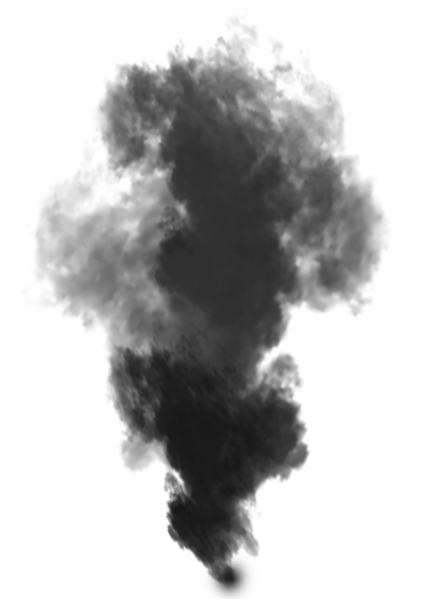
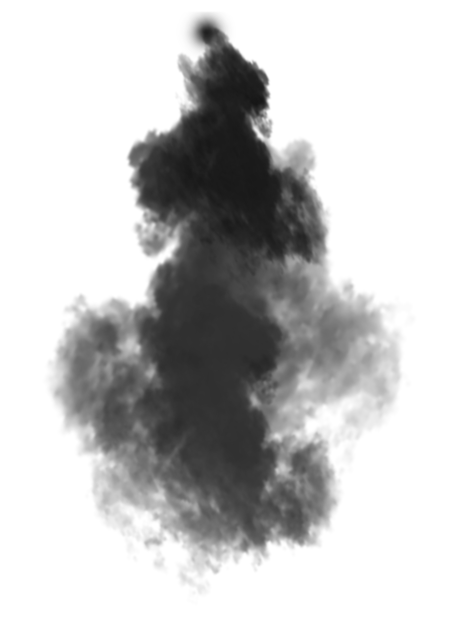
refined landing page

diff --git a/landing-page/main1.js b/landing-page/main1.js
@@ -5,7 +5,7 @@ var scene,
   portalLight,
   cam,
   renderer,
-  clock,
+  // clock,
   portalParticles = [],
   smokeParticles = [],
   FOV,
@@ -18,17 +18,17 @@ function initScene() {
   sceneLight.position.set(0, 0, 1);
   scene.add(sceneLight);
 
-  portalLight = new THREE.PointLight(0x1d2f51, 50, 600, 1.7);
-  portalLight.position.set(0, 0, 250);
-  scene.add(portalLight);
+  // portalLight = new THREE.PointLight(0x1d2f51, 50, 600, 1.7);
+  // portalLight.position.set(0, 0, 250);
+  // scene.add(portalLight);
 
   // Mobile camera
   if (window.innerWidth <= 768) {
-    FOV = 110;
+    FOV = 90;
     FAR = 1000;
     // 769px - 1080px screen width camera
   } else {
-    FOV = 90;
+    FOV = 70;
     FAR = 800;
   }
 
@@ -41,44 +41,40 @@ function initScene() {
   cam.position.z = 700;
   scene.add(cam);
 
-  renderer = new THREE.WebGLRenderer();
+  renderer = new THREE.WebGLRenderer({
+    antialias: false
+  });
   renderer.setClearColor(0x201b24, 1);
   renderer.setSize(window.innerWidth, window.innerHeight);
   document.body.appendChild(renderer.domElement);
 
-  let lightPurpleLight = new THREE.PointLight(0xd48fd4, 25, 700, 2);
-  lightPurpleLight.position.set(-100, 300, 100);
+  let lightPurpleLight = new THREE.PointLight(0xd48fd4, 30, 700, 2);
+  // let lightPurpleLight = new THREE.HemisphereLight(0xd48fd4, 0x201b24, 10);
+  lightPurpleLight.position.set(-100, 100, 100);
   scene.add(lightPurpleLight);
 
-  // let redLight = new THREE.PointLight(0xdc2f02, 75, 700, 2);
-  // redLight.position.set(200, 300, 100);
-  // scene.add(redLight);
-
+  // let blueLight = new THREE.HemisphereLight(0xa9abdc, 0x201b24, 12);
   let blueLight = new THREE.PointLight(0xa9abdc, 50, 700, 2);
   blueLight.position.set(300, 300, 200);
   scene.add(blueLight);
 
   window.addEventListener("resize", onWindowResize, false);
 
-  particleSetup();
-}
-
-function particleSetup() {
   let loader = new THREE.TextureLoader();
 
   loader.load("./assets/smoke.png", function (texture) {
     let portalGeo = new THREE.PlaneGeometry(350, 350);
-    let portalMaterial = new THREE.MeshStandardMaterial({
+    let portalMaterial = new THREE.MeshLambertMaterial({
       map: texture,
       transparent: true,
     });
-    let smokeGeo = new THREE.PlaneGeometry(1000, 1000);
-    let smokeMaterial = new THREE.MeshStandardMaterial({
+    let smokeGeo = new THREE.PlaneGeometry(900, 600);
+    let smokeMaterial = new THREE.MeshLambertMaterial({
       map: texture,
       transparent: true,
     });
 
-    for (let p = 400; p > 50; p--) {
+    for (let p = 325; p > 50; p--) {
       let particle = new THREE.Mesh(portalGeo, portalMaterial);
       particle.position.set(
         0.5 * p * Math.cos((4 * p * Math.PI) / 180),
@@ -90,25 +86,25 @@ function particleSetup() {
       scene.add(particle);
     }
 
-    for (let p = 0; p < 25; p++) {
+    for (let p = 0; p < 50; p++) {
       let particle = new THREE.Mesh(smokeGeo, smokeMaterial);
       particle.position.set(
         Math.random() * 400 - 200,
         Math.random() * 400 - 200,
         25
       );
-      particle.rotation.z = Math.random() * 360;
+      particle.rotation.z = Math.random()* 360;
       particle.material.opacity = 0.6;
       portalParticles.push(particle);
       scene.add(particle);
     }
     // clock = new THREE.Clock();
 
-    
-
-    animate();
+    update();
   });
 }
+
+// function particleSetup() {}
 
 function onWindowResize() {
   cam.aspect = window.innerWidth / window.innerHeight;
@@ -118,15 +114,38 @@ function onWindowResize() {
 
 function animate() {
   // let delta = clock.getDelta();
-  portalParticles.forEach((p) => {
-    p.rotation.z -= 0.1* 0.3;
-  });
-  smokeParticles.forEach((p) => {
-    p.rotation.z -= 0.1 * 0.4;
-  });
+  // portalParticles.forEach((p) => {
+  //   p.rotation.z -= 0.01 * 0.9;
+  // });
+  // smokeParticles.forEach((p) => {
+  //   p.rotation.z -= 0.01 * 0.8;
+  // });
+  // renderer.render(scene, cam);
+  // requestAnimationFrame(animate);
+}
 
-  renderer.render(scene, cam);
-  requestAnimationFrame(animate);
+let clock = new THREE.Clock();
+let delta = 0;
+// 30 fps
+let interval = 1 / 10;
+
+function update() {
+  requestAnimationFrame(update);
+  delta += clock.getDelta();
+
+  if (delta > interval) {
+    // The draw or time dependent code are here
+    portalParticles.forEach((p) => {
+      p.rotation.z -= 0.9 * 0.1;
+    });
+    smokeParticles.forEach((p) => {
+      p.rotation.z -= 0.00000000001;
+    });
+
+    renderer.render(scene, cam);
+
+    delta = delta % interval;
+  }
 }
 
 initScene();

diff --git a/landing-page/style.css b/landing-page/style.css
@@ -20,8 +20,8 @@ body {
 }
 
 .logo {
-  width: 300px;
-  height: 300px;
+  width: 170px;
+  height: 170px;
   -webkit-animation-delay: 1s;
   -moz-animation-delay: 1s;
   animation-delay: 1.7s;
@@ -29,6 +29,10 @@ body {
   animation-duration: 1s;
   animation-fill-mode: both;
   -webkit-animation-fill-mode: both;
+  border-radius: 50%;
+  background-color: #000;
+  box-shadow: 0 0 15px 7.5px #fff, /* inner white */ 0 0 60px 48px #f0f,
+    /* middle magenta */ 0 0 80px 30px #0ff; /* outer cyan */
 }
 
 .fadeIn {
@@ -45,22 +49,22 @@ body {
 
 @media (max-width: 660px) {
   .logo {
-    height: 200px;
-    width: 200px;
+    height: 120px;
+    width: 120px;
   }
 }
 
 @media (max-width: 380px) {
   .logo {
-    height: 200px;
-    width: 200px;
+    height: 120px;
+    width: 120px;
   }
 }
 
 @media (max-width: 290px) {
   .logo {
-    height: 150px;
-    width: 150px;
+    height: 70px;
+    width: 70px;
   }
 }
 

diff --git a/landing-page/index.html b/landing-page/index.html
@@ -4,13 +4,12 @@
     <meta charset="UTF-8" />
     <meta name="viewport" content="width=device-width, initial-scale=1.0" />
     <title>Landing Page Idea Demo</title>
-    <link rel="stylesheet" href="./style.css">
+    <link rel="stylesheet" href="./style.css" />
   </head>
   <body>
-    <div class="main-container">
-      <img class="logo fadeIn" src="./assets/final.png" alt="Malhar Logo" />
+    <div class="main-container" id="main-container">
+      <img class="logo fadeIn" src="./assets/final1.png" alt="Malhar Logo" />
     </div>
-
     <script type="module" src="./main1.js"></script>
   </body>
 </html>
